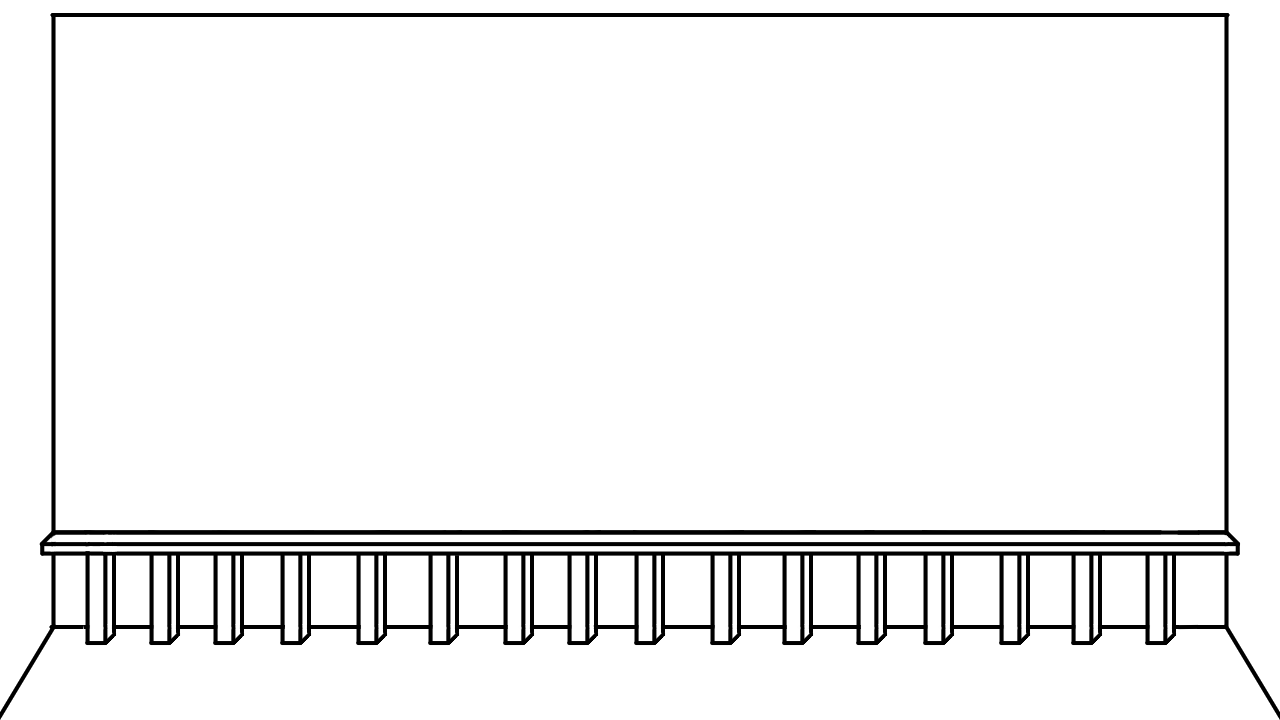
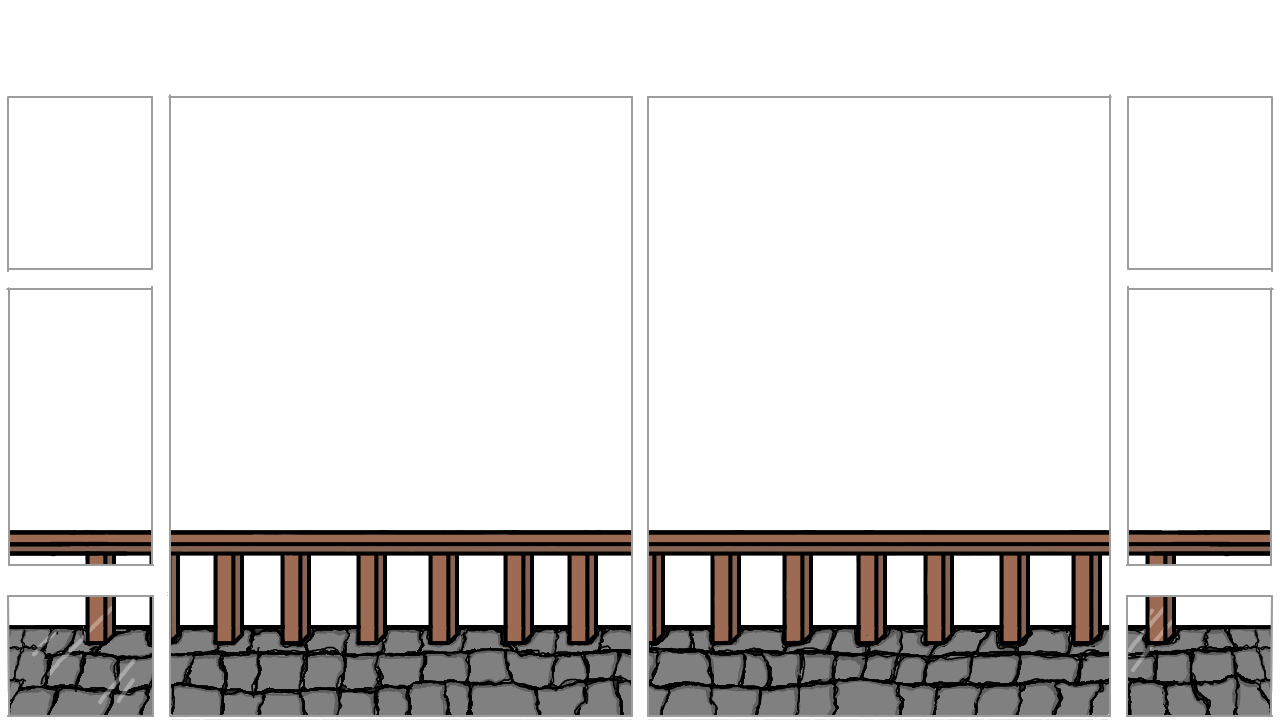
Background + smaller art done
Changed the UI style,
fixed some more logic issues

diff --git a/scripts/gameScene.js b/scripts/gameScene.js
@@ -13,7 +13,7 @@ export class GameScene extends Phaser.Scene {
   preload() {
     // runs once before create()
     this.load.image("background", "assets/background.png");
-    this.load.image("lockedTexture", "assets/lockedVase.png");
+    this.load.image("lockedTexture", "assets/locked_vase.png");
     this.load.image("vaseTexture", "assets/vase.png");
     this.load.image("rose_stage_1", "assets/rose_stage_1.png");
     this.load.image("rose_stage_2", "assets/rose_stage_2.png");
@@ -50,13 +50,21 @@ export class GameScene extends Phaser.Scene {
       this.loadGame();
     } else {
       this.lockedVases = [
-        new LockedVase(this, 400, 475, 70),
-        new LockedVase(this, 800, 475, 100),
-        new LockedVase(this, 900, 475, 100),  
+        new LockedVase(this, 390, 475, 35),
+        new LockedVase(this, 545, 475, 35),
+        
+        new LockedVase(this, 735, 475, 75),
+        new LockedVase(this, 895, 475, 75),  
+        new LockedVase(this, 1035, 475, 75),
+        
+        new LockedVase(this, 975, 600, 125),
+        new LockedVase(this, 825, 600, 125),
+        new LockedVase(this, 475, 600, 125),
+        new LockedVase(this, 335, 600, 125),
       ];
 
       this.vases = [
-        new Vase(this, 300, 475)
+        new Vase(this, 250, 475)
       ];
     }
 
@@ -87,7 +95,10 @@ export class GameScene extends Phaser.Scene {
       }
 
       // Early return in case the plant has died, no reward
-      if (this.selectedPlant.isDead) return;
+      if (this.selectedPlant.isDead){
+        this.saveGame();
+        return;
+      }
 
       // Add to inventory if the plant was all good
       this.addToInventory(this.selectedPlant.plantName);
@@ -183,7 +194,6 @@ export class GameScene extends Phaser.Scene {
     document.getElementById('plantSelection').addEventListener("click", (e) => {
       if (!e.target.classList.contains("plantSeed")) return;
       this.selectedPlantType = e.target.textContent.split(" ")[0];
-      console.log(this.selectedPlantType)
     });
 
 
@@ -257,13 +267,13 @@ export class GameScene extends Phaser.Scene {
     // Display all the info
     this.selectedPlant = plant
     document.getElementById('emptyPlantInfo').style.display = "none";
+    document.getElementById('plantInfoImage').src = `assets/${plant.plantName}_stage_${plant.currentStage}.png`;
     document.getElementById('plantInfoTitle').textContent = plant.plantName;
     document.getElementById('plantInfoWater').textContent = "Water: " + plant.waterLevel;
     document.getElementById('plantInfoGrowthDays').textContent = "Days to grow: " + plant.growthDays;
     document.getElementById('plantInfoCurrentDays').textContent = "Days alive: " + plant.currentDays;
     document.getElementById('plantInfoUnhealthyDays').textContent = "Days unhealthy: " + plant.daysUnhealthy;
     document.getElementById('plantInfoValue').textContent = "Value: " + plant.value + " coins";
-    document.getElementById('waterBtn').textContent = "Water";
     document.getElementById('harvestBtn').textContent = "Harvest";
     document.getElementById('plantInfo').classList.remove("hidden");
   }
@@ -349,6 +359,8 @@ export class GameScene extends Phaser.Scene {
         waterLevel: plant.waterLevel,
         currentDays: plant.currentDays,
         daysUnhealthy: plant.daysUnhealthy,
+        isGrown: plant.isGrown,
+        isDead: plant.isDead,
         vaseIndex: this.vases.indexOf(plant.vase)
       };
     });
@@ -402,6 +414,10 @@ export class GameScene extends Phaser.Scene {
     
       newPlant.currentDays = plant.currentDays;
       newPlant.daysUnhealthy = plant.daysUnhealthy;
+      newPlant.isGrown = plant.isGrown;
+      newPlant.isDead = plant.isDead;
+
+      newPlant.growthChange();
 
       this.plants.push(newPlant);
       vase.isEmpty = false;

diff --git a/style.css b/style.css
@@ -10,7 +10,7 @@ body {
 }
 
 canvas {
-  border: 6px pink solid;
+  border: 6px solid;
   border-radius: 12px;
 }
 
@@ -21,8 +21,8 @@ button {
 #dayCounter {
   position: absolute;
   top: 12%;
-  left: 50%;
-  color: white;
+  left: calc(50% - 35px);
+  color: rgb(0, 0, 0);
   font-size: 20px;
 }
 
@@ -36,6 +36,21 @@ button {
   border-radius: 8px;
   padding: 10px 14px;
   width: 100%;
+  border: solid 6px;
+}
+
+#plantInfo {
+  text-align: center;
+}
+
+#plantInfoImage {
+  border: solid;
+  border-radius: 12px;
+}
+
+#plantInfoTitle {
+  font-size: 32px;
+  border: none;
 }
 
 #plantInfo.hidden * {
@@ -44,6 +59,13 @@ button {
 
 #plantInfo.hidden {
   visibility: hidden;
+}
+
+#plantInfo  div {
+  width: 100%;
+  border: solid 2px black;
+  margin: 1px;
+  border-radius: 20px;
 }
 
 #emptyPlantInfo, #emptyInventory {
@@ -63,6 +85,10 @@ button {
   display: flex;
   justify-content: space-between;
   align-items: center;
+}
+
+#inventoryText, #openPlantSelection {
+  font-size: 28px;
 }
 
 .collectedPlant {

diff --git a/scripts/plant.js b/scripts/plant.js
@@ -20,6 +20,7 @@ export class Plant extends Phaser.GameObjects.Sprite {
     this.currentDays = 0;
     this.daysUnhealthy = 0;
     this.isDead = false;
+    this.isGrown = false;
     this.currentStage = 1;
     
     // Make the plant interactive by showing the info on click
@@ -47,6 +48,8 @@ export class Plant extends Phaser.GameObjects.Sprite {
 
     // Block action if the plant isn't ready for harvest
     if (!(this.isDead || this.isGrown)) {
+      console.log(this.isDead);
+      console.log(this.isGrown)
       alert("Can't harvest " + this.plantName + "!!")
       return false;
     }
@@ -85,19 +88,23 @@ export class Plant extends Phaser.GameObjects.Sprite {
       this.currentDays += 1;
     }
 
-    const stage = this.growthChange();
+    this.growthChange();
+
+  }
+  
+  // CHANGE TEXTURE BASED ON GROWTH STATUS
+  growthChange() {
+    const checkpoints = PLANT_DATA[this.plantName].growthCheckpoint;
+    let stage = 0;
+    
+    if (this.isDead) stage = 1;
+    else if (this.currentDays < checkpoints[0]) stage = 1;
+    else if (this.currentDays < checkpoints[1]) stage = 2;
+    else stage = 3;
+    
     if (stage != this.currentStage) {
       this.currentStage = stage;
       this.setTexture(this.plantName.toLowerCase() + "_stage_" + this.currentStage);
     }
-  }
-
-  // CHANGE TEXTURE BASED ON GROWTH STATUS
-  growthChange() {
-    const checkpoints = PLANT_DATA[this.plantName].growthCheckpoint;
-
-    if (this.currentDays < checkpoints[0]) return 1;
-    if (this.currentDays < checkpoints[1]) return 2;
-    return 3;
   }
 }

diff --git a/index.html b/index.html
@@ -9,7 +9,7 @@
 </head>
 <body>
 
-    <div id="coinCounter" style="text-align: center; font-size: 30px; position: absolute; top: 10px; left: calc(50% - 30px);">Coins: 0</div>
+    <div id="coinCounter" style="text-align: center; font-size: 35px; position: absolute; top: 10px; left: calc(50% - 70px);">Coins: 0</div>
     
     <div id="gameContainer">
         <div id="toolbar">
@@ -24,13 +24,14 @@
         <div id="gameWindow"> <!-- Game canvas --> </div>
         <div id="plantInfo" class="hidden">
             <span id="emptyPlantInfo">Select a plant to see info</span>
+            <img src="" id="plantInfoImage">
             <div id="plantInfoTitle"></div>
             <div id="plantInfoWater"></div>
             <div id="plantInfoGrowthDays"></div>
             <div id="plantInfoCurrentDays"></div>
             <div id="plantInfoUnhealthyDays"></div>
             <div id="plantInfoValue"></div>
-            <div id="waterBtn"></div>
+            <div id="waterBtn"><img src="assets/watering_can.png" alt=""></div>
             <div id="harvestBtn"></div>
         </div>
     </div>

diff --git a/scripts/main.js b/scripts/main.js
@@ -6,7 +6,7 @@ const config = {
   width: 1280,
   height: 720,
   parent: 'gameWindow',
-  backgroundColor: '#333',
+  backgroundColor: '#76aee3',
   scene: [GameScene]
 };
 

diff --git a/scripts/lockedVase.js b/scripts/lockedVase.js
@@ -4,7 +4,6 @@ export class LockedVase extends Phaser.GameObjects.Sprite {
     scene.add.existing(this);
 
     this.price = price;
-    this.scale = 0.5;
 
     this.setInteractive({useHandCursor: true});
     this.on("pointerdown", () => {